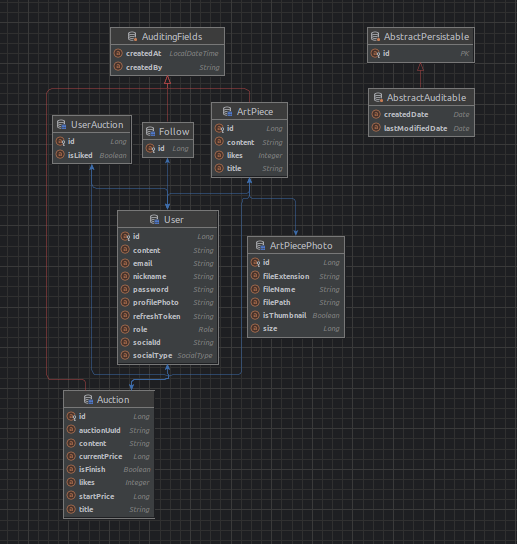
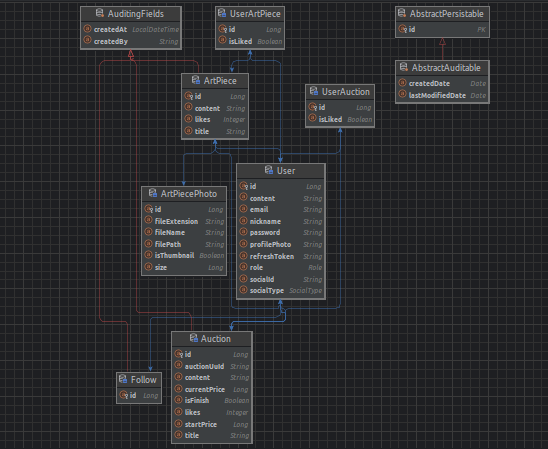
#38 - ArtPiece 기능 구현

diff --git a/src/main/java/com/artfolio/artfolio/business/service/ArtPieceService.java b/src/main/java/com/artfolio/artfolio/business/service/ArtPieceService.java
@@ -1,8 +1,14 @@
 package com.artfolio.artfolio.business.service;
 
 import com.artfolio.artfolio.business.domain.ArtPiece;
+import com.artfolio.artfolio.business.domain.ArtPiecePhoto;
+import com.artfolio.artfolio.business.domain.UserArtPiece;
 import com.artfolio.artfolio.business.dto.ArtPieceDto;
+import com.artfolio.artfolio.business.dto.ImageDto;
+import com.artfolio.artfolio.business.repository.ArtPiecePhotoRepository;
 import com.artfolio.artfolio.business.repository.ArtPieceRepository;
+import com.artfolio.artfolio.business.repository.UserArtPieceRepository;
+import com.artfolio.artfolio.global.exception.ArtPieceNotFoundException;
 import com.artfolio.artfolio.global.exception.UserNotFoundException;
 import com.artfolio.artfolio.user.entity.User;
 import com.artfolio.artfolio.user.repository.UserRepository;
@@ -11,14 +17,21 @@ import lombok.extern.slf4j.Slf4j;
 import org.springframework.stereotype.Service;
 import org.springframework.transaction.annotation.Transactional;
 
+import java.util.ArrayList;
+import java.util.List;
+import java.util.Optional;
+
 @Slf4j
 @RequiredArgsConstructor
+@Transactional
 @Service
 public class ArtPieceService {
     private final ArtPieceRepository artPieceRepository;
+    // private final ArtPiecePhotoRepository artPiecePhotoRepository;
     private final UserRepository userRepository;
+    private final ImageService imageService;
+    private final UserArtPieceRepository userArtPieceRepository;
 
-    @Transactional
     public Long createArtPiece(ArtPieceDto.CreationReq req) {
         log.info("[ createArtPiece() ] req : {}", req);
 
@@ -30,5 +43,103 @@ public class ArtPieceService {
         user.addArtPiece(artPiece);
 
         return artPiece.getId();
+    }
+
+    public Long deleteArtPiece(ArtPieceDto.DeletionReq req) {
+        log.info("[ deleteArtPiece() ] req : {}", req);
+
+        Long artistId = req.getArtistId();
+        Long artPieceId = req.getArtPieceId();
+
+        User user = userRepository.findById(artistId)
+                .orElseThrow(() -> new UserNotFoundException(artistId));
+
+        ArtPiece artPiece = artPieceRepository.findById(artPieceId)
+                .orElseThrow(() -> new ArtPieceNotFoundException(artPieceId));
+
+        if (!user.equals(artPiece.getArtist())) {
+            return 0L;
+        }
+
+        List<ArtPiecePhoto> artPiecePhotos = artPiece.getArtPiecePhotos();
+
+        for (ArtPiecePhoto artPiecePhoto : artPiecePhotos) {
+            ImageDto.DeleteReq deleteReq = new ImageDto.DeleteReq(
+                    artistId,
+                    artPieceId,
+                    artPiecePhoto.getFileName() + "." + artPiecePhoto.getFileExtension()
+            );
+
+            imageService.deleteFile(deleteReq);
+        }
+
+        // artPiecePhotoRepository.deleteAll(artPiecePhotos); --> cascade
+        artPieceRepository.delete(artPiece);
+
+        return 1L;
+    }
+
+    public Long updateTitle(ArtPieceDto.UpdateTitleReq req) {
+        Long artistId = req.getArtistId();
+        Long artPieceId = req.getArtPieceId();
+        String title = req.getTitle();
+
+        User user = userRepository.findById(artistId)
+                .orElseThrow(() -> new UserNotFoundException(artistId));
+
+        ArtPiece artPiece = artPieceRepository.findById(artPieceId)
+                .orElseThrow(() -> new ArtPieceNotFoundException(artPieceId));
+
+        if (!user.equals(artPiece.getArtist())) {
+            return 0L;
+        }
+
+        artPiece.updateTitle(title);
+        return 1L;
+    }
+
+    public Long updateContent(ArtPieceDto.UpdateContentReq req) {
+        Long artistId = req.getArtistId();
+        Long artPieceId = req.getArtPieceId();
+        String content = req.getContent();
+
+        User user = userRepository.findById(artistId)
+                .orElseThrow(() -> new UserNotFoundException(artistId));
+
+        ArtPiece artPiece = artPieceRepository.findById(artPieceId)
+                .orElseThrow(() -> new ArtPieceNotFoundException(artPieceId));
+
+        if (!user.equals(artPiece.getArtist())) {
+            return 0L;
+        }
+
+        artPiece.updateContent(content);
+        return 1L;
+    }
+
+    public Integer updateLike(ArtPieceDto.UpdateLikeReq req) {
+        Long artistId = req.getArtistId();
+        Long artPieceId = req.getArtPieceId();
+
+        User user = userRepository.findById(artistId)
+                .orElseThrow(() -> new UserNotFoundException(artistId));
+
+        ArtPiece artPiece = artPieceRepository.findById(artPieceId)
+                .orElseThrow(() -> new ArtPieceNotFoundException(artPieceId));
+
+        Optional<UserArtPiece> userArtPieceOp = userArtPieceRepository.findByUserAndArtPiece(user, artPiece);
+
+        if (userArtPieceOp.isPresent()) {
+            UserArtPiece userArtPiece = userArtPieceOp.get();
+            if (userArtPiece.getIsLiked()) artPiece.decreaseLike(userArtPiece);
+            else artPiece.increaseLike(userArtPiece);
+        } else {
+            UserArtPiece userArtPiece = new UserArtPiece(user, artPiece);
+            userArtPieceRepository.save(userArtPiece);
+            artPiece.updateUserArtPiece(userArtPiece);
+            artPiece.increaseLike(userArtPiece);
+        }
+
+        return artPieceRepository.saveAndFlush(artPiece).getLikes();
     }
 }

diff --git a/src/main/java/com/artfolio/artfolio/business/domain/ArtPiece.java b/src/main/java/com/artfolio/artfolio/business/domain/ArtPiece.java
@@ -29,13 +29,14 @@ public class ArtPiece extends AuditingFields {
     @JoinColumn(name = "artist_id", nullable = false)
     private User artist;
 
-    @Column(nullable = false)
-    @OneToMany(mappedBy = "artPiece", fetch = FetchType.EAGER, cascade = CascadeType.ALL)
+    @OneToMany(mappedBy = "artPiece", fetch = FetchType.EAGER, cascade = CascadeType.ALL, orphanRemoval = true)
     private final List<ArtPiecePhoto> artPiecePhotos = new ArrayList<>();
 
-    @Column(nullable = false)
     @OneToMany(mappedBy = "artPiece", fetch = FetchType.EAGER, cascade = CascadeType.ALL)
     private final List<Auction> auctions = new ArrayList<>();
+
+    @OneToMany(mappedBy = "artPiece", fetch = FetchType.EAGER, cascade = CascadeType.ALL, orphanRemoval = true)
+    private final List<UserArtPiece> userArtPieces = new ArrayList<>();
 
     @Builder
     public ArtPiece(String title, String content, Integer likes, User artist) {
@@ -57,5 +58,28 @@ public class ArtPiece extends AuditingFields {
     public void updatePhoto(ArtPiecePhoto artPiecePhoto) {
         this.artPiecePhotos.add(artPiecePhoto);
         artPiecePhoto.setArtPiece(this);
+    }
+
+    public void updateTitle(String title) {
+        this.title = title;
+    }
+
+    public void updateContent(String content) {
+        this.content = content;
+    }
+
+    public void increaseLike(UserArtPiece userArtPiece) {
+        this.likes++;
+        userArtPiece.toggleIsLiked();
+    }
+
+    public void decreaseLike(UserArtPiece userArtPiece) {
+        this.likes--;
+        userArtPiece.toggleIsLiked();
+    }
+
+    public void updateUserArtPiece(UserArtPiece userArtPiece) {
+        userArtPiece.setArtPiece(this);
+        this.userArtPieces.add(userArtPiece);
     }
 }

diff --git a/src/main/java/com/artfolio/artfolio/business/controller/ArtPieceController.java b/src/main/java/com/artfolio/artfolio/business/controller/ArtPieceController.java
@@ -22,6 +22,26 @@ public class ArtPieceController {
         return new ResponseEntity<>(artPieceService.createArtPiece(req), HttpStatus.CREATED);
     }
 
+    @DeleteMapping
+    public ResponseEntity<Long> deleteArtPiece(@RequestBody ArtPieceDto.DeletionReq req) {
+        return ResponseEntity.ok(artPieceService.deleteArtPiece(req));
+    }
+
+    @PatchMapping("/title")
+    public ResponseEntity<Long> updateArtPieceTitle(@RequestBody ArtPieceDto.UpdateTitleReq req) {
+        return ResponseEntity.ok(artPieceService.updateTitle(req));
+    }
+
+    @PatchMapping("/content")
+    public ResponseEntity<Long> updateArtPieceContent(@RequestBody ArtPieceDto.UpdateContentReq req) {
+        return ResponseEntity.ok(artPieceService.updateContent(req));
+    }
+
+    @PatchMapping("/like")
+    public ResponseEntity<Integer> updateArtPieceLike(@RequestBody ArtPieceDto.UpdateLikeReq req) {
+        return ResponseEntity.ok(artPieceService.updateLike(req));
+    }
+
     @PostMapping("/image")
     public ResponseEntity<Long> uploadArtPiecePhoto(
             @RequestParam("artistId") Long artistId,

diff --git a/src/main/java/com/artfolio/artfolio/business/dto/ArtPieceDto.java b/src/main/java/com/artfolio/artfolio/business/dto/ArtPieceDto.java
@@ -12,4 +12,42 @@ public class ArtPieceDto {
         private String content;
         private Long artistId;
     }
+
+    @Getter @Setter @ToString
+    @Builder
+    @AllArgsConstructor
+    @NoArgsConstructor
+    public static class DeletionReq {
+        private Long artistId;
+        private Long artPieceId;
+    }
+
+    @Getter @Setter @ToString
+    @Builder
+    @AllArgsConstructor
+    @NoArgsConstructor
+    public static class UpdateTitleReq {
+        private Long artistId;
+        private Long artPieceId;
+        private String title;
+    }
+
+    @Getter @Setter @ToString
+    @Builder
+    @AllArgsConstructor
+    @NoArgsConstructor
+    public static class UpdateContentReq {
+        private Long artistId;
+        private Long artPieceId;
+        private String content;
+    }
+
+    @Getter @Setter @ToString
+    @Builder
+    @NoArgsConstructor
+    @AllArgsConstructor
+    public static class UpdateLikeReq {
+        private Long artistId;
+        private Long artPieceId;
+    }
 }

diff --git a/src/main/java/com/artfolio/artfolio/business/domain/UserArtPiece.java b/src/main/java/com/artfolio/artfolio/business/domain/UserArtPiece.java
@@ -10,25 +10,25 @@ import lombok.Setter;
 @Getter
 @NoArgsConstructor(access = AccessLevel.PROTECTED)
 @Entity
-public class UserAuction {
+public class UserArtPiece {
     @Id @GeneratedValue(strategy = GenerationType.IDENTITY)
     private Long id;
 
     @ManyToOne
-    @JoinColumn(name = "user_id", nullable = false)
+    @JoinColumn(name = "user_id")
     private User user;
 
     @Setter
     @ManyToOne
-    @JoinColumn(name = "auction_id", nullable = false)
-    private Auction auction;
+    @JoinColumn(name = "art_piece_id")
+    private ArtPiece artPiece;
 
     @Column(nullable = false)
     private Boolean isLiked;
 
-    public UserAuction(User user, Auction auction) {
+    public UserArtPiece(User user, ArtPiece artPiece) {
         this.user = user;
-        this.auction = auction;
+        this.artPiece = artPiece;
         this.isLiked = false;
     }
 

diff --git a/src/main/java/com/artfolio/artfolio/user/entity/User.java b/src/main/java/com/artfolio/artfolio/user/entity/User.java
@@ -1,6 +1,7 @@
 package com.artfolio.artfolio.user.entity;
 
 import com.artfolio.artfolio.business.domain.ArtPiece;
+import com.artfolio.artfolio.business.domain.UserArtPiece;
 import com.artfolio.artfolio.business.domain.UserAuction;
 import com.artfolio.artfolio.user.dto.Role;
 import com.artfolio.artfolio.user.dto.SocialType;
@@ -62,6 +63,9 @@ public class User implements UserDetails {
 
     @OneToMany(mappedBy = "toUser")
     private final List<Follow> followings = new ArrayList<>();
+
+    @OneToMany(mappedBy = "user")
+    private final List<UserArtPiece> userArtPieces = new ArrayList<>();
 
     @Builder
     public User(String email, String password, String nickname, String profilePhoto, Role role, SocialType socialType, String socialId, String content, String refreshToken) {

diff --git a/src/main/java/com/artfolio/artfolio/business/repository/UserArtPieceRepository.java b/src/main/java/com/artfolio/artfolio/business/repository/UserArtPieceRepository.java
@@ -1,0 +1,12 @@
+package com.artfolio.artfolio.business.repository;
+
+import com.artfolio.artfolio.business.domain.ArtPiece;
+import com.artfolio.artfolio.business.domain.UserArtPiece;
+import com.artfolio.artfolio.user.entity.User;
+import org.springframework.data.jpa.repository.JpaRepository;
+
+import java.util.Optional;
+
+public interface UserArtPieceRepository extends JpaRepository<UserArtPiece, Long> {
+    Optional<UserArtPiece> findByUserAndArtPiece(User user, ArtPiece artPiece);
+}

diff --git a/src/main/java/com/artfolio/artfolio/business/domain/ArtPiecePhoto.java b/src/main/java/com/artfolio/artfolio/business/domain/ArtPiecePhoto.java
@@ -27,7 +27,7 @@ public class ArtPiecePhoto {
     private Boolean isThumbnail;
 
     @Setter
-    @ManyToOne(fetch = FetchType.LAZY, cascade = CascadeType.ALL)
+    @ManyToOne(fetch = FetchType.LAZY)
     @JoinColumn(name = "art_piece_id", nullable = false)
     private ArtPiece artPiece;
 
